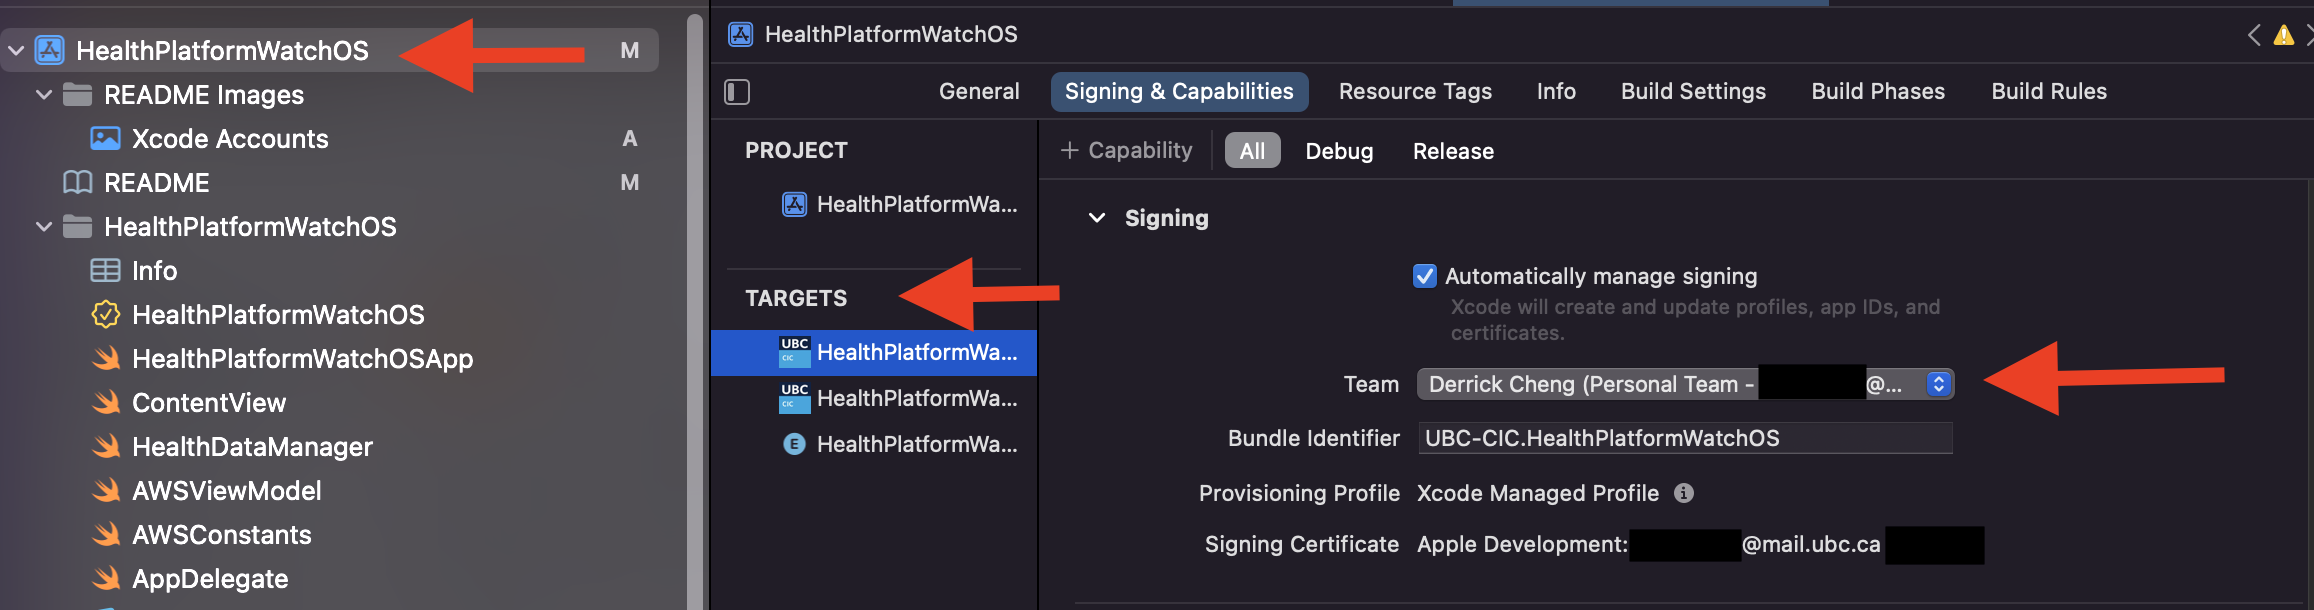
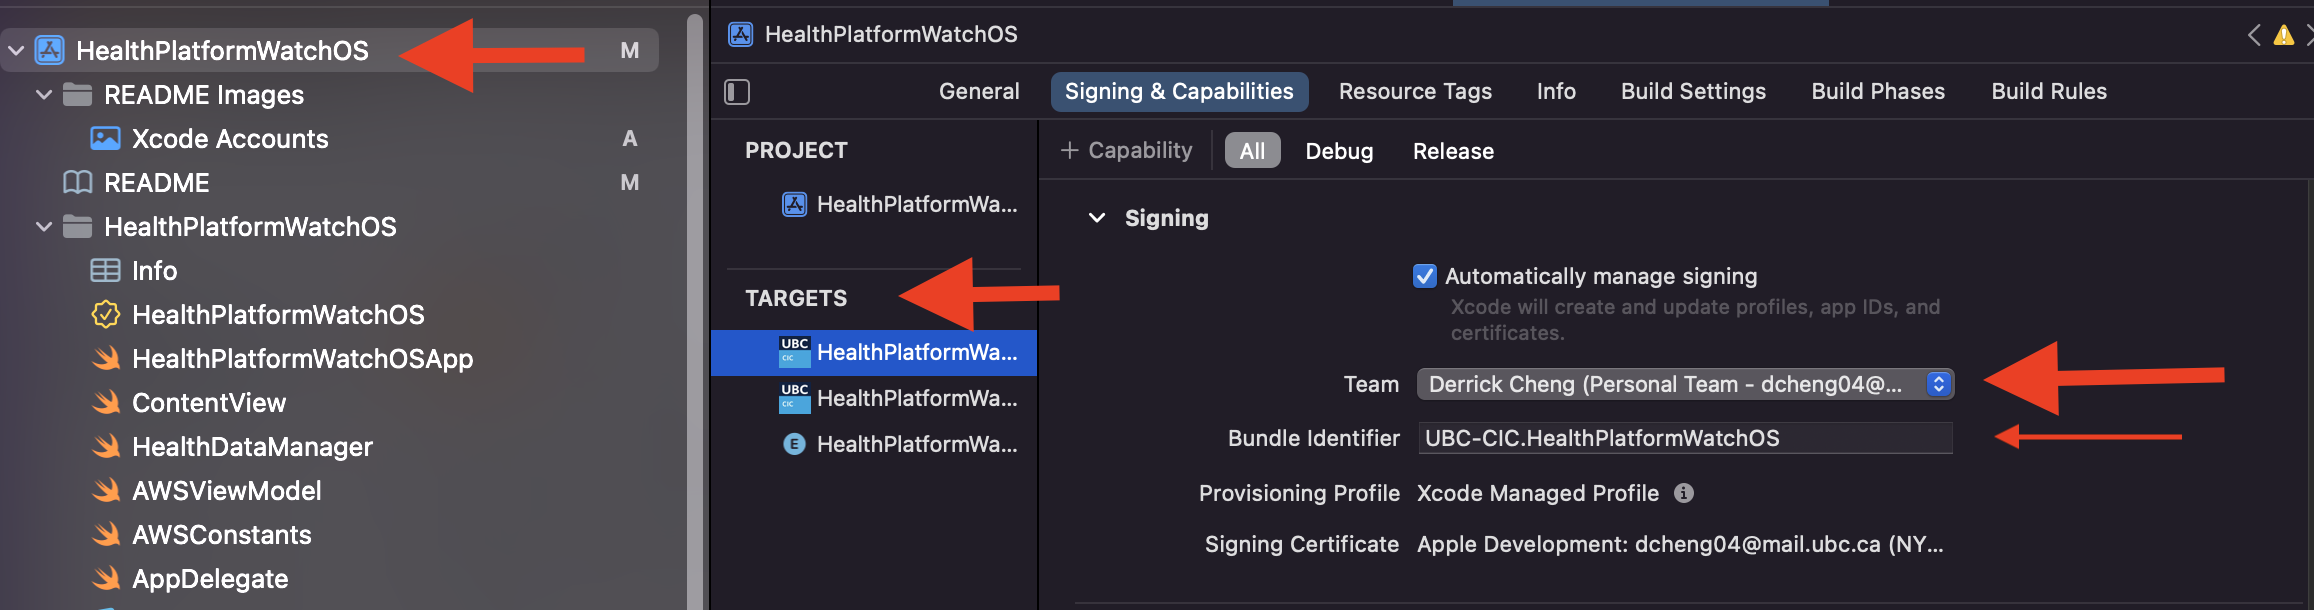
Updating README

diff --git a/README.md b/README.md
@@ -26,7 +26,7 @@ Click on clone an existing project. Paste the HTTPS Clone link you copied earlie
 
 <img src="https://github.com/UBC-CIC/health-platform-iOS-watchOS/blob/master/README%20Images/Clone.png"/>
     
-### Update signing 
+### Update signing and bundle indentifiers
 
 Start by going to Xcode -> Preferences -> Accounts and adding your Apple ID with the plus sign in the bottom left corner
 
@@ -34,9 +34,20 @@ Start by going to Xcode -> Preferences -> Accounts and adding your Apple ID with
 
 Sign up for an Apple developer account with your Apple ID if you don't have one already [here](https://developer.apple.com/account/#!/welcome).
 
-Under HealthPlatformWatchOS -> Signing, change the team to your Apple account. It should say Your Name (Personal Team - youremail@email.com). Do this for each of the 3 targets in the Targets sidebar.
+Under HealthPlatformWatchOS -> Signing, change the team to your Apple account. It should say Your Name (Personal Team - youremail@email.com). Also change the bundle identifier to a different string, anything works as long as XCode doesn't show any errors. Do this for each of the 3 targets in the Targets sidebar.
 
 <img src="https://github.com/UBC-CIC/health-platform-iOS-watchOS/blob/master/README%20Images/Signing.png"/>
+
+Next, at the top left corner of XCode, click the search icon and type AppBundle in the search bar, 2 results should show up.
+
+<img src="https://github.com/UBC-CIC/health-platform-iOS-watchOS/blob/master/README%20Images/Bundle%20Indentifier%20Search.png"/>
+
+Change each of the 2 results to your respective new bundle indetifiers. WatchKit Companian App Bundle Indentifier should match the bundle identifier for HealthPlatformWatchOS, and WKAppBundleIdentifier should match the bundle identifier for HealthPlatformWatchOS WatchKit App.
+
+<p float="left">
+<img src="https://github.com/UBC-CIC/health-platform-iOS-watchOS/blob/master/README%20Images/Bundle%20Update%201.png"/>
+<img src="https://github.com/UBC-CIC/health-platform-iOS-watchOS/blob/master/README%20Images/Bundle%20Update%202.png"/>
+</p>
 
 ### Deploying to your device
 
